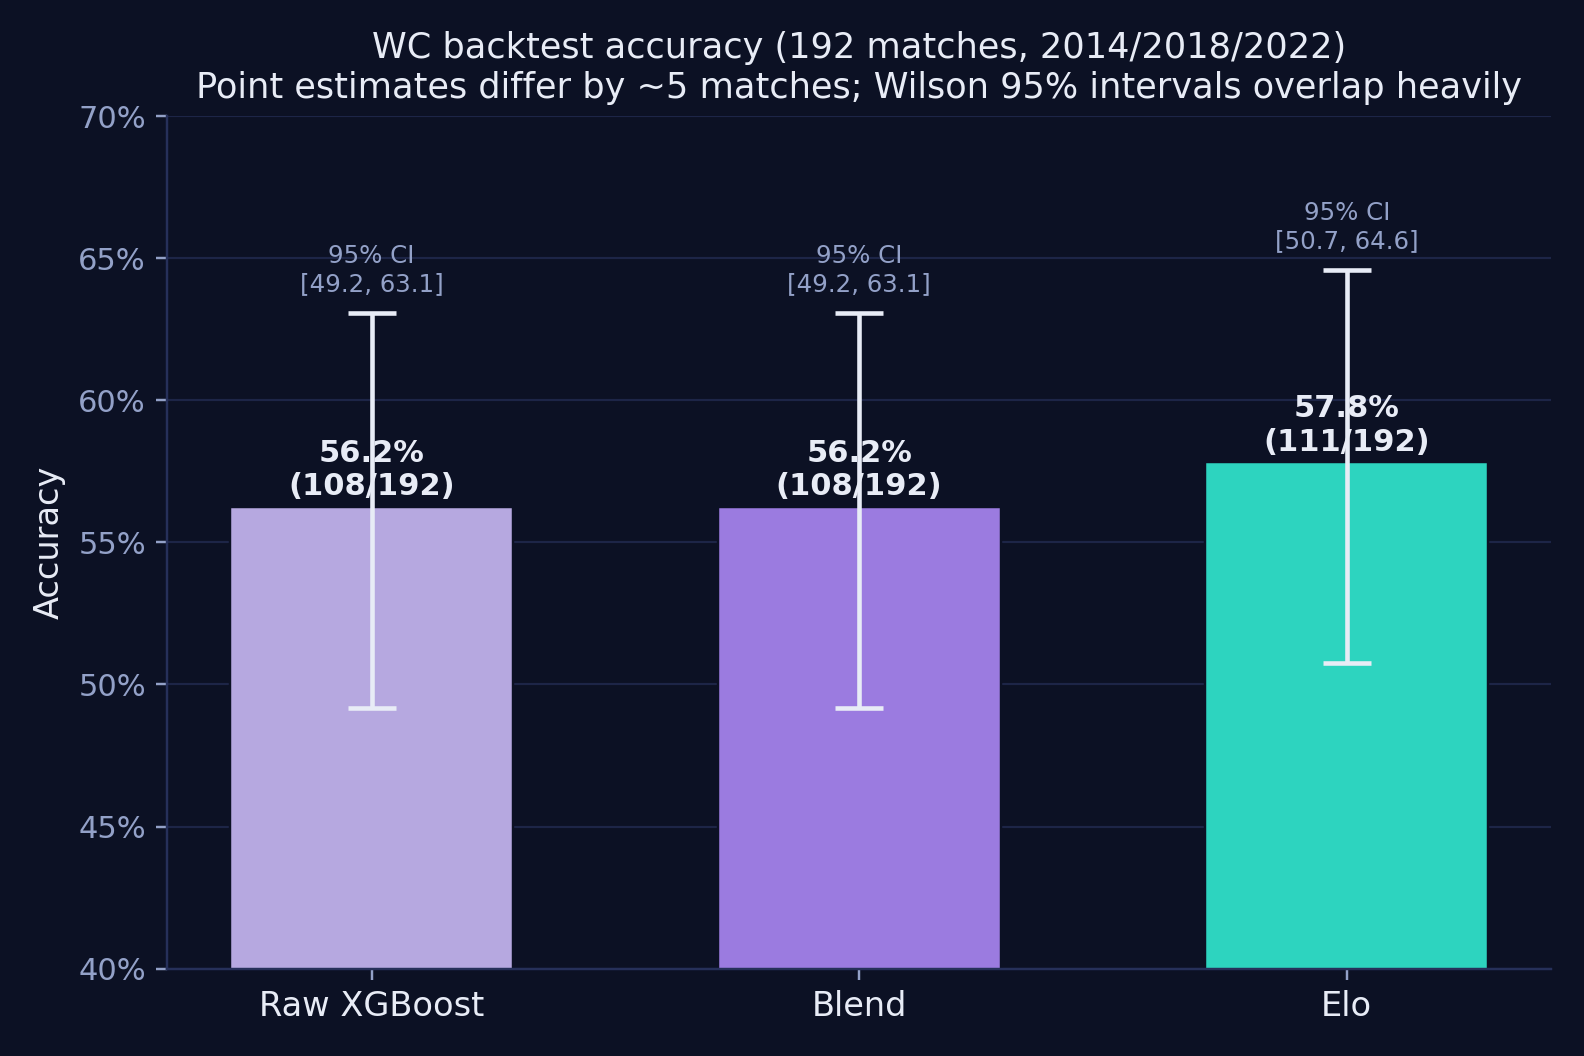
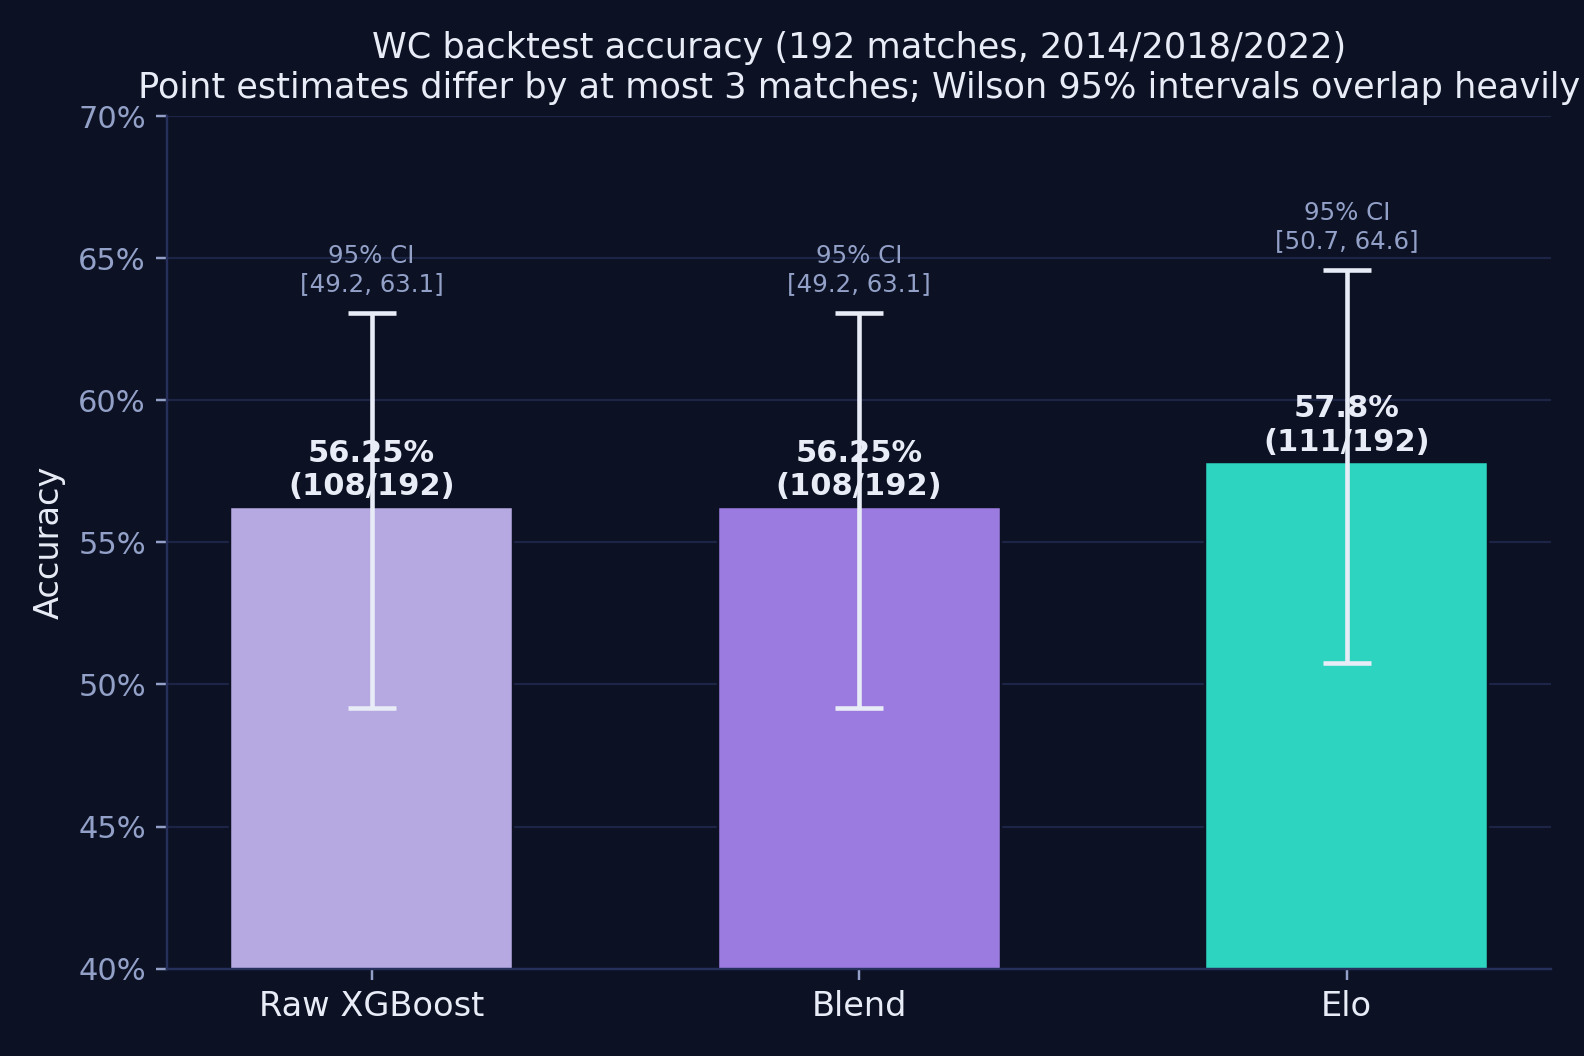
Correct stale metric comments and derive figure annotations from reports

Changed region(s): [[0.0928, 0.0625, 1.0, 0.0938], [0.4949, 0.4062, 0.5878, 0.4375], [0.1856, 0.4062, 0.2784, 0.4375]]

diff --git a/src/make_figures.py b/src/make_figures.py
@@ -62,6 +62,24 @@ def _dark_axes(fig, ax) -> None:
 # --------------------------------------------------------------------------- #
 # Reusable stats helpers
 # --------------------------------------------------------------------------- #
+def _fmt_pct(p: float) -> str:
+    """
+    Percentage with one decimal — except when the value sits exactly on the
+    rounding boundary (108/192 = 56.25%), where Python's round-half-even
+    would render a misleading 56.2%; show both decimals instead.
+    """
+    pct = p * 100.0
+    if abs((pct * 10) % 1 - 0.5) < 1e-9:
+        return f"{pct:.2f}%"
+    return f"{pct:.1f}%"
+
+
+def _years_label(tournaments) -> str:
+    """Derive '2014/2018/2022' from 'WC <year>' values — never hard-coded."""
+    years = sorted({int(str(t).split()[-1]) for t in tournaments})
+    return "/".join(str(y) for y in years)
+
+
 def wilson_interval(k: int, n: int, z: float = 1.96) -> tuple[float, float]:
     """
     Wilson score interval for a binomial proportion k/n.
@@ -87,7 +105,7 @@ def multiclass_ece(y_true: np.ndarray, proba: np.ndarray, n_bins: int = 10,
     predicted probabilities (10 equal-frequency / quantile bins by default),
     and accumulate |confidence - accuracy| weighted by bin count. The overall
     ECE is the sample-weighted mean of the per-class ECEs (each class
-    contributes n samples), matching the reliability curves in figure 5.
+    contributes n samples), matching the reliability curves in figure 6.
 
     Returns (overall_ece, {class_index: per_class_ece}).
     """
@@ -173,7 +191,7 @@ def figure4(df: pd.DataFrame) -> None:
                 elinewidth=1.5, capsize=8, capthick=1.5, zorder=3)
 
     for xi, (acc, k, lo, hi) in enumerate(zip(accs, ks, los, his)):
-        ax.text(xi, acc + 0.002, f"{acc*100:.1f}%\n({k}/{n})",
+        ax.text(xi, acc + 0.002, f"{_fmt_pct(acc)}\n({k}/{n})",
                 ha="center", va="bottom", fontsize=10, fontweight="bold",
                 color=DARK_TEXT)
         ax.text(xi, hi + 0.006, f"95% CI\n[{lo*100:.1f}, {hi*100:.1f}]",
@@ -184,9 +202,11 @@ def figure4(df: pd.DataFrame) -> None:
     ax.set_xticklabels(labels, fontsize=11, color=DARK_TEXT)
     ax.yaxis.set_major_formatter(plt.FuncFormatter(lambda v, _: f"{v*100:.0f}%"))
     ax.set_ylabel("Accuracy", fontsize=11)
-    ax.set_title("WC backtest accuracy (192 matches, 2014/2018/2022)\n"
-                 "Point estimates differ by ~5 matches; Wilson 95% intervals "
-                 "overlap heavily",
+    spread = max(ks) - min(ks)   # derived from the predictions, never hard-coded
+    ax.set_title(f"WC backtest accuracy ({n} matches, "
+                 f"{_years_label(df['tournament'])})\n"
+                 f"Point estimates differ by at most {spread} matches; "
+                 "Wilson 95% intervals overlap heavily",
                  fontsize=11.5)
     ax.grid(axis="y", color=DARK_GRID, linewidth=0.7, zorder=0)
     ax.set_axisbelow(True)
@@ -200,7 +220,7 @@ def figure4(df: pd.DataFrame) -> None:
     print(f"Wrote {out}")
     print("  Accuracy (k/n) with 95% Wilson intervals:")
     for label, k, acc, lo, hi in zip(labels, ks, accs, los, his):
-        print(f"    {label:<12} {k:>3}/{n}  {acc*100:5.1f}%  "
+        print(f"    {label:<12} {k:>3}/{n}  {_fmt_pct(acc):>7}  "
               f"[{lo*100:.1f}%, {hi*100:.1f}%]")
 
 
@@ -262,11 +282,12 @@ def figure6(df: pd.DataFrame) -> None:
 # --------------------------------------------------------------------------- #
 # Figure 3 — combined backtest comparison table (rendered as an image)
 # --------------------------------------------------------------------------- #
-def _combined_metrics() -> pd.DataFrame:
+def _combined_metrics() -> tuple[pd.DataFrame, int, str]:
     """
     Pull the COMBINED (192-match) row for each system from the metrics summary,
-    so the table can never drift from the data. Returns rows in fixed order
-    (Raw XGBoost, Blend, Elo baseline) with display names.
+    so the table can never drift from the data. Returns (rows in fixed order
+    (Raw XGBoost, Blend, Elo baseline) with display names, match count,
+    'YYYY/YYYY/YYYY' tournament label) — all derived from the CSV.
     """
     summary = pd.read_csv(REPORTS_DIR / "backtest_metrics_summary.csv")
     comb = summary[summary["tournament"] == "Combined"].set_index("model")
@@ -280,11 +301,14 @@ def _combined_metrics() -> pd.DataFrame:
                      "accuracy": float(r["accuracy"]),
                      "log_loss": float(r["log_loss"]),
                      "brier": float(r["brier"])})
-    return pd.DataFrame(rows)
+    n = int(comb["n"].iloc[0])
+    years = _years_label(t for t in summary["tournament"]
+                         if str(t).startswith("WC "))
+    return pd.DataFrame(rows), n, years
 
 
 def figure3() -> None:
-    data = _combined_metrics()
+    data, n_matches, years = _combined_metrics()
 
     # Best per metric: accuracy higher is better; log-loss / Brier lower.
     best = {"accuracy": int(data["accuracy"].idxmax()),
@@ -350,7 +374,7 @@ def figure3() -> None:
                 fontsize=11, color=INK, zorder=3)
 
         # Numeric cells (right-aligned), best value highlighted + bold
-        values = {"accuracy": f"{row['accuracy']*100:.1f}%",
+        values = {"accuracy": _fmt_pct(row["accuracy"]),
                   "log_loss": f"{row['log_loss']:.4f}",
                   "brier":    f"{row['brier']:.4f}"}
         for key, (xl, xr) in cols.items():
@@ -370,7 +394,7 @@ def figure3() -> None:
     # Footnote inside the image
     ax.text(0, row_bands[-1][0] - 0.10,
             "Accuracy higher is better; log-loss and Brier lower is better.  "
-            "192 matches, WC 2014/2018/2022, leakage-free.",
+            f"{n_matches} matches, WC {years}, leakage-free.",
             ha="left", va="top", fontsize=8, color=GREY, zorder=3)
 
     out = FIG_DIR / "figure3_backtest_table.png"
@@ -380,7 +404,7 @@ def figure3() -> None:
     print(f"Wrote {out}")
     print("  Combined-row values pulled from the metrics summary:")
     for _, r in data.iterrows():
-        print(f"    {r['system']:<13} acc {r['accuracy']*100:5.1f}%   "
+        print(f"    {r['system']:<13} acc {_fmt_pct(r['accuracy']):>7}   "
               f"log-loss {r['log_loss']:.4f}   Brier {r['brier']:.4f}")
 
 

diff --git a/src/train.py b/src/train.py
@@ -68,13 +68,14 @@ LABEL_MAP = {0: "Home win", 1: "Draw", 2: "Away win"}
 WC_BACKTEST_YEARS = [2014, 2018, 2022]
 
 # Production ensemble: blend XGB probabilities with an Elo-logistic prior.
-# Honest finding from the clean walk-forward rerun (see
-# notebooks/04_model_improvement.md): the blend IMPROVES on raw XGB
-# (log-loss/Brier) but does NOT beat the naive Elo baseline — Elo is in fact
-# better on all three metrics, and the blend-vs-Elo gap is within noise
-# (McNemar p≈0.30, bootstrap log-loss CI straddles 0). The blend ships for its
-# better calibration over raw XGB, not as a claimed win over Elo. Weight tuned
-# on WC 2006/2010 only.
+# Honest finding from the canonical 192-match backtest (see
+# reports/backtest_metrics_summary.csv): the blend IMPROVES on raw XGB
+# (log-loss/Brier) and posts numerically lower pooled log-loss (0.9720 vs
+# 0.9769) and Brier (0.5735 vs 0.5770) than the naive Elo baseline, but Elo
+# is more accurate (57.8% vs 56.25%) and the gap is within noise (McNemar
+# p≈0.58, bootstrap log-loss CI straddles 0). The blend ships for its better
+# probabilistic scores over raw XGB, not as a claimed win over Elo. Weight
+# tuned on WC 2006/2010 only.
 ELO_BLEND_W   = 0.75   # XGB share of the blend
 ELO_DRAW_RATE = 0.227  # historical draw share used by the prior
 
